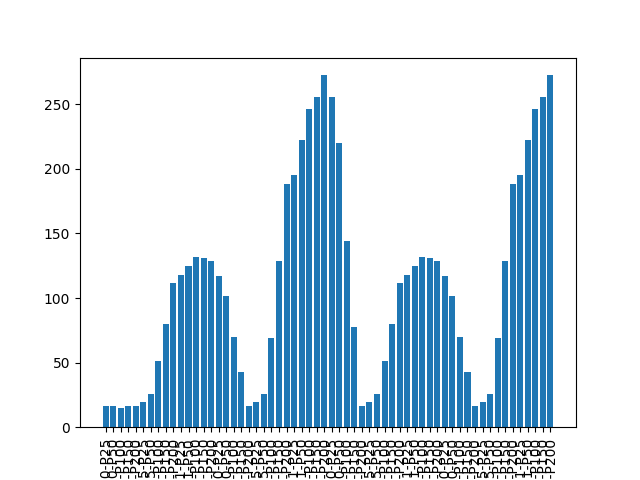
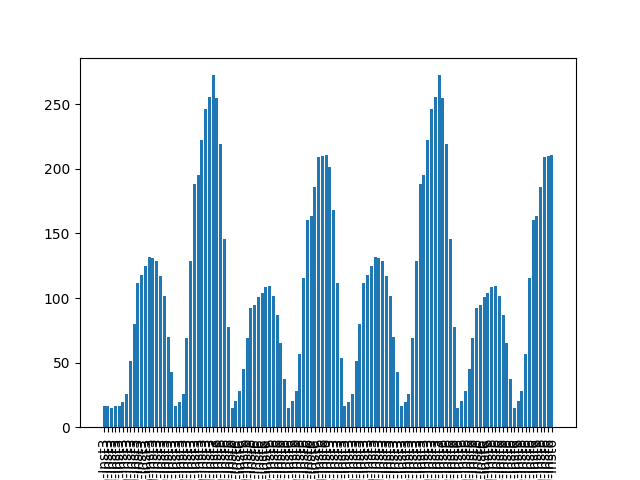
Cambios actualizados

Changed region(s): [[0.1562, 0.1562, 0.875, 1.0]]

diff --git a/HojasDeTrabajo/HDT_5/main.py b/HojasDeTrabajo/HDT_5/main.py
@@ -11,8 +11,6 @@ from matplotlib.pyplot import *
 import numpy as np
 
 
-
-
 RANDO_SEED = 42
 
 CICLOS = 1
@@ -26,16 +24,16 @@ ready = []
 
 class Process:
     
-    def __init__(self, env, name, ramUse):
+    def __init__(self, env, name, ramUse, mintime):
         self.env = env
         self.name = name
         self.ramUse = ramUse
         self.totalInst = randint(1,10)
         self.leftInst = self.totalInst
         self.cpu_time = 0
-        
+        self.minTime = mintime
     def run(self, cpu):
-        instructions = min(3, self.leftInst)
+        instructions = min(self.minTime, self.leftInst)
         self.cpu_time = instructions * CICLOS
         self.leftInst -= instructions
        
@@ -55,11 +53,11 @@ class Process:
                 print(f'Proceso No. {self.name} listo en t={round(self.env.now)}')
                 ready.append(self)
 
-def genProcess(env, ram):
+def genProcess(env, ram, minTime):
     for i in range(NOPROCESOS+1):
         ramUsage = randint(1,10)
         tiempos_procesos[i] = []
-        process = Process(env,i,ramUsage)
+        process = Process(env,i,ramUsage, minTime)
         yield ram.get(ramUsage)
         ahora = round(env.now)
         print(f'Proceso No. {process.name} generado en t={ahora}')
@@ -135,30 +133,33 @@ def imprimirRes():
 
 
 for j in [1,2]:
-    for x in [100,200]:
-        for n in [10,5,1]:
-            for i in [25,50,100,150,200]:
-    
-                NUCLEOS = j
-                CAPACIDADRAM= x
-                NOPROCESOS = i
-                INTERVALO = n
+    for k in [3,6]:
+        for x in [100,200]:
+            for n in [10,5,1]:
+                for i in [25,50,100,150,200]:
+        
+                    NUCLEOS = j
+                    CAPACIDADRAM= x
+                    NOPROCESOS = i
+                    INTERVALO = n
+                    MINTIME = k
+                        
+                    seed(RANDO_SEED)
+                    env = Environment()
+                    ram = Container(env, init=CAPACIDADRAM, capacity=CAPACIDADRAM)
+                    cpu = Resource(env, capacity=NUCLEOS)
+
+                    env.process(genProcess(env, ram, MINTIME))
+                    env.process(cpuScheduler(env,cpu))
+                    env.process(ioScheduler(env))
+
+                    env.run(until=3000)
                     
-                seed(RANDO_SEED)
-                env = Environment()
-                ram = Container(env, init=CAPACIDADRAM, capacity=CAPACIDADRAM)
-                cpu = Resource(env, capacity=NUCLEOS)
+                    prm, sdv = calcTiempos()
 
-                env.process(genProcess(env, ram))
-                env.process(cpuScheduler(env,cpu))
-                env.process(ioScheduler(env))
-
-                env.run(until=3000)
-                
-                prm, sdv = calcTiempos()
-
-                nombrePrueba = f"N{j}-R{x}-I{n}-P{i}"
-                resultados[nombrePrueba] = [prm, sdv]
+                    #Nucleos-RAM-Intervalo-Procesos
+                    nombrePrueba = f"N{j}-R{x}-I{n}-P{i}-Inst{k}"
+                    resultados[nombrePrueba] = [prm, sdv]
 
 imprimirRes()
 graficarRes()
